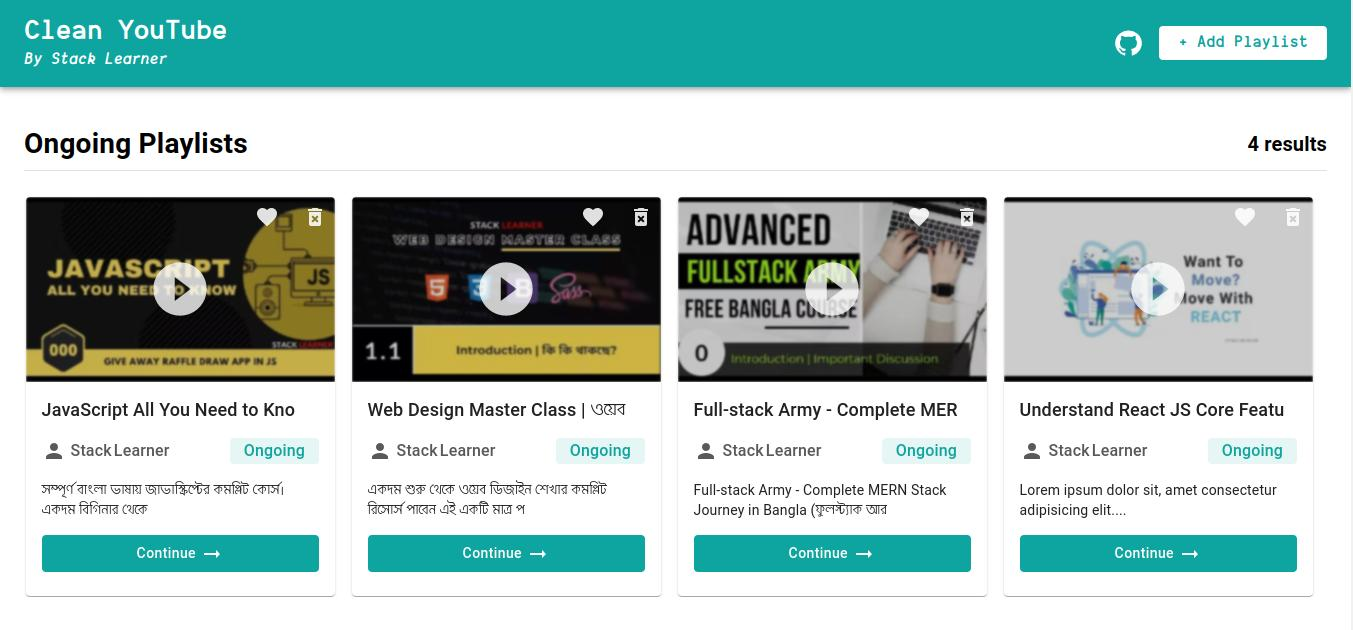
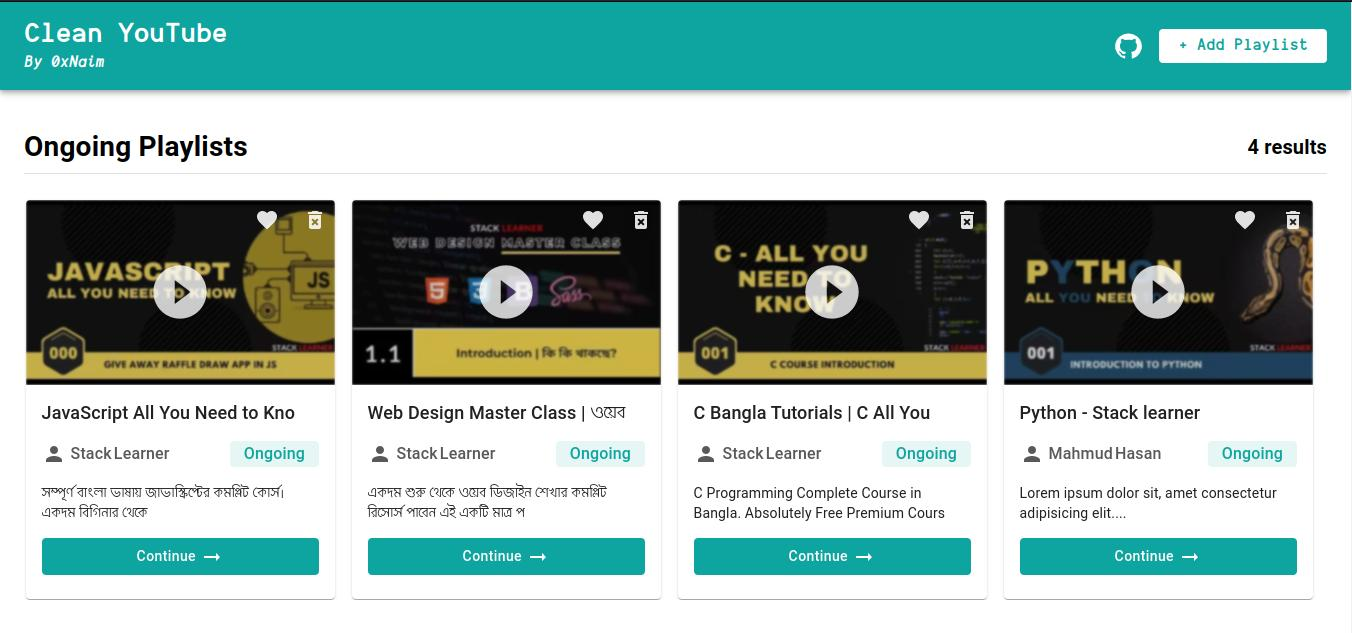
modify: markdown page modified

diff --git a/components/layout/navbar/Navbar.jsx b/components/layout/navbar/Navbar.jsx
@@ -48,14 +48,14 @@ const Navbar = () => {
                 </Typography>
               </a>
             </Link>
-            <Link href='https://www.youtube.com/c/StackLearner'>
+            <Link href='https://www.facebook.com/0xNaim'>
               <a className={styles.navbar__link} target='_blank'>
                 <Typography
                   variant='body1'
                   className={styles.navbar__subheading}
                   sx={{ display: { xs: 'none', md: 'block' } }}
                 >
-                  By Stack Learner
+                  By 0xNaim
                 </Typography>
               </a>
             </Link>
